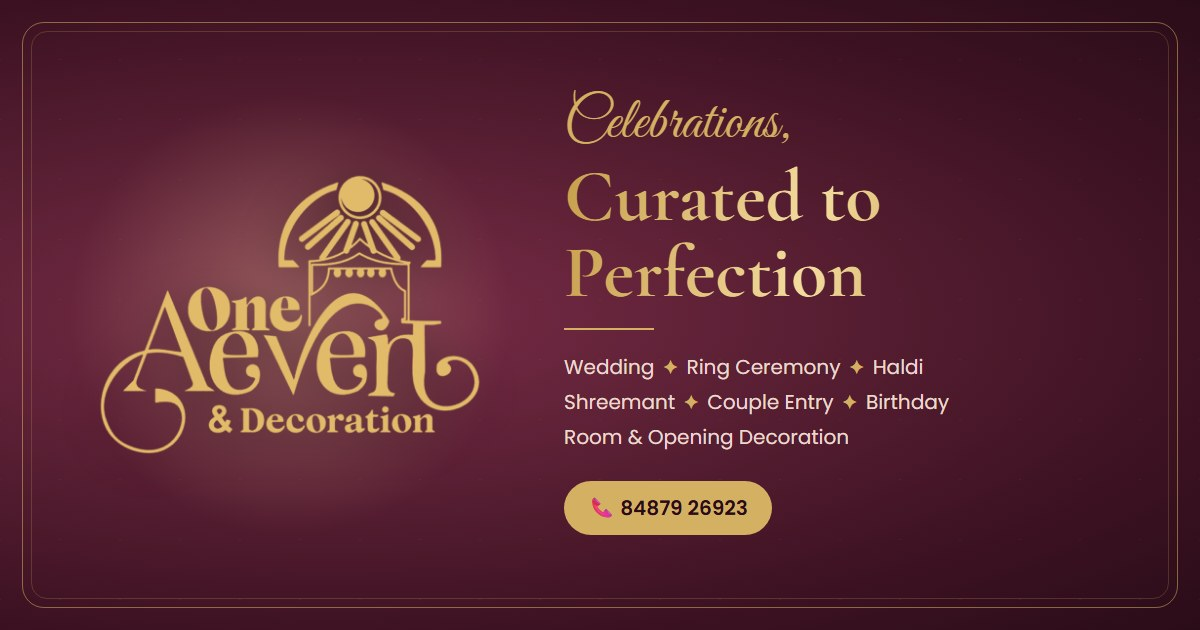
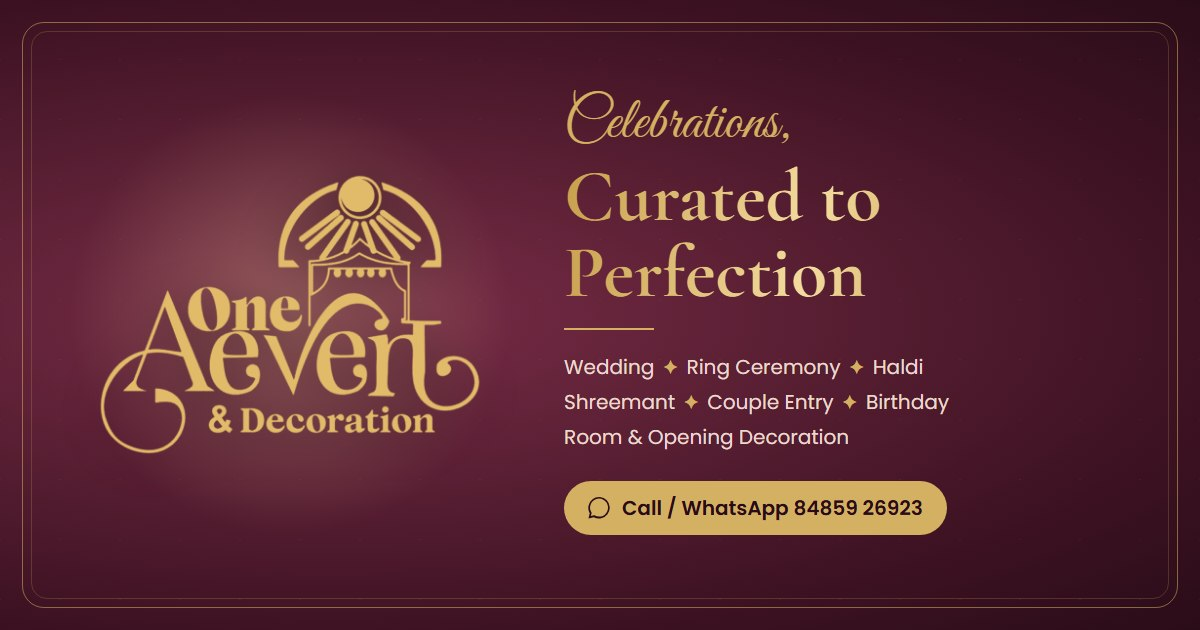
Change primary call/WhatsApp number to 8485926923

Changed region(s): [[0.4933, 0.754, 0.8017, 0.8746]]

diff --git a/index.html b/index.html
@@ -9,7 +9,7 @@
 <meta property="og:url" content="https://aone-eventmanagement.github.io/">
 <meta property="og:site_name" content="A One Event & Decoration">
 <meta property="og:title" content="A One Event & Decoration | Curated to Perfection">
-<meta property="og:description" content="Wedding, ring ceremony, haldi, shreemant, couple entry, birthday, room and opening decoration. Call or WhatsApp 84879 26923.">
+<meta property="og:description" content="Wedding, ring ceremony, haldi, shreemant, couple entry, birthday, room and opening decoration. Call or WhatsApp 84859 26923.">
 <meta property="og:image" content="https://aone-eventmanagement.github.io/assets/og-banner.jpg">
 <meta property="og:image:width" content="1200">
 <meta property="og:image:height" content="630">
@@ -34,7 +34,7 @@
   "url": "https://aone-eventmanagement.github.io/",
   "logo": "https://aone-eventmanagement.github.io/assets/icon-512.png",
   "image": "https://aone-eventmanagement.github.io/assets/og-banner.jpg",
-  "telephone": "+91-8487926923",
+  "telephone": "+91-8485926923",
   "email": "aoneeventmanagement7@gmail.com",
   "address": {
     "@type": "PostalAddress",
@@ -47,7 +47,7 @@
   "areaServed": "Dholka, Gujarat",
   "sameAs": ["https://www.instagram.com/aone.event_management"],
   "contactPoint": [
-    {"@type": "ContactPoint", "telephone": "+91-8487926923", "contactType": "customer service", "availableLanguage": ["English", "Hindi", "Gujarati"]},
+    {"@type": "ContactPoint", "telephone": "+91-8485926923", "contactType": "customer service", "availableLanguage": ["English", "Hindi", "Gujarati"]},
     {"@type": "ContactPoint", "telephone": "+91-7984782588", "contactType": "customer service"},
     {"@type": "ContactPoint", "telephone": "+91-6353818038", "contactType": "customer service"},
     {"@type": "ContactPoint", "telephone": "+91-7016895014", "contactType": "customer service"}
@@ -571,9 +571,9 @@ footer{background:var(--maroon-dd);color:#cdb9b0;padding:60px 0 26px}
       <h2 data-i18n="cta_title">Planning a Celebration?</h2>
       <p data-i18n="cta_text">Tell us about your event and we will design a decor experience your guests will talk about for years.</p>
       <div class="cta-actions">
-        <a href="tel:+918487926923" class="btn btn-gold">
+        <a href="tel:+918485926923" class="btn btn-gold">
           <svg viewBox="0 0 24 24" fill="none" stroke="currentColor" stroke-width="2" aria-hidden="true"><path d="M22 16.9v3a2 2 0 0 1-2.2 2 19.8 19.8 0 0 1-8.6-3.1 19.5 19.5 0 0 1-6-6A19.8 19.8 0 0 1 2.1 4.2 2 2 0 0 1 4.1 2h3a2 2 0 0 1 2 1.7c.1.9.4 1.8.7 2.7a2 2 0 0 1-.5 2.1L8 9.8a16 16 0 0 0 6 6l1.3-1.3a2 2 0 0 1 2.1-.4c.9.3 1.8.6 2.7.7a2 2 0 0 1 1.7 2z"/></svg><span data-i18n="cta_call">Call Now</span></a>
-        <a href="https://wa.me/918487926923" target="_blank" rel="noopener" class="btn btn-line" data-i18n="cta_wa">WhatsApp Us</a>
+        <a href="https://wa.me/918485926923" target="_blank" rel="noopener" class="btn btn-line" data-i18n="cta_wa">WhatsApp Us</a>
       </div>
     </div>
   </div>
@@ -594,7 +594,7 @@ footer{background:var(--maroon-dd);color:#cdb9b0;padding:60px 0 26px}
         <p data-i18n="info_text">Call, WhatsApp or visit us. We would love to hear about your celebration.</p>
         <div class="info-row"><i><svg viewBox="0 0 24 24" fill="none" stroke="currentColor" stroke-width="1.8"><path d="M22 16.9v3a2 2 0 0 1-2.2 2 19.8 19.8 0 0 1-8.6-3.1 19.5 19.5 0 0 1-6-6A19.8 19.8 0 0 1 2.1 4.2 2 2 0 0 1 4.1 2h3a2 2 0 0 1 2 1.7c.1.9.4 1.8.7 2.7a2 2 0 0 1-.5 2.1L8 9.8a16 16 0 0 0 6 6l1.3-1.3a2 2 0 0 1 2.1-.4c.9.3 1.8.6 2.7.7a2 2 0 0 1 1.7 2z"/></svg></i>
           <div><small data-i18n="lbl_phone">Phone</small><div class="phones">
-            <a href="tel:+918487926923">+91 84879 26923</a><a href="tel:+917984782588">+91 79847 82588</a>
+            <a href="tel:+918485926923">+91 84859 26923</a><a href="tel:+917984782588">+91 79847 82588</a>
             <a href="tel:+916353818038">+91 63538 18038</a><a href="tel:+917016895014">+91 70168 95014</a></div></div></div>
         <div class="info-row"><i><svg viewBox="0 0 24 24" fill="none" stroke="currentColor" stroke-width="1.8"><rect x="3" y="3" width="18" height="18" rx="5"/><circle cx="12" cy="12" r="4"/><circle cx="17.5" cy="6.5" r="1" fill="currentColor"/></svg></i>
           <div><small data-i18n="lbl_insta">Instagram</small><a href="https://www.instagram.com/aone.event_management" target="_blank" rel="noopener">@aone.event_management</a></div></div>
@@ -645,7 +645,7 @@ footer{background:var(--maroon-dd);color:#cdb9b0;padding:60px 0 26px}
         <p data-i18n="foot_text">Elegant decoration for weddings, ceremonies and every celebration in between. Curated to perfection.</p>
         <div class="social">
           <a href="https://www.instagram.com/aone.event_management" target="_blank" rel="noopener" aria-label="Instagram"><svg viewBox="0 0 24 24" fill="none" stroke="currentColor" stroke-width="1.8"><rect x="3" y="3" width="18" height="18" rx="5"/><circle cx="12" cy="12" r="4"/></svg></a>
-          <a href="https://wa.me/918487926923" target="_blank" rel="noopener" aria-label="WhatsApp"><svg viewBox="0 0 24 24" fill="currentColor"><path d="M20.5 3.5A11.8 11.8 0 0 0 1.9 17.7L.5 23.5l5.9-1.5A11.8 11.8 0 0 0 20.5 3.5zM12 21.4a9.8 9.8 0 0 1-5-1.4l-.4-.2-3.5.9.9-3.4-.2-.4A9.8 9.8 0 1 1 12 21.4z"/></svg></a>
+          <a href="https://wa.me/918485926923" target="_blank" rel="noopener" aria-label="WhatsApp"><svg viewBox="0 0 24 24" fill="currentColor"><path d="M20.5 3.5A11.8 11.8 0 0 0 1.9 17.7L.5 23.5l5.9-1.5A11.8 11.8 0 0 0 20.5 3.5zM12 21.4a9.8 9.8 0 0 1-5-1.4l-.4-.2-3.5.9.9-3.4-.2-.4A9.8 9.8 0 1 1 12 21.4z"/></svg></a>
           <a href="mailto:aoneeventmanagement7@gmail.com" aria-label="Email"><svg viewBox="0 0 24 24" fill="none" stroke="currentColor" stroke-width="1.8"><rect x="2" y="4" width="20" height="16" rx="2"/><path d="M22 6l-10 7L2 6"/></svg></a>
         </div>
       </div>
@@ -657,21 +657,21 @@ footer{background:var(--maroon-dd);color:#cdb9b0;padding:60px 0 26px}
       <div>
         <h4 data-i18n="foot_links">Quick Links</h4>
         <a href="#about" data-i18n="nav_about">About</a><a href="#process" data-i18n="nav_process">Process</a><a href="#contact" data-i18n="ct_title">Book Your Date</a>
-        <a href="tel:+918487926923">+91 84879 26923</a>
+        <a href="tel:+918485926923">+91 84859 26923</a>
       </div>
     </div>
     <p class="copy">© <span id="year"></span> A One Event &amp; Decoration. <span data-i18n="copy">All rights reserved.</span></p>
   </div>
 </footer>
 
-<a class="wa" href="https://wa.me/918487926923" target="_blank" rel="noopener" aria-label="Chat on WhatsApp">
+<a class="wa" href="https://wa.me/918485926923" target="_blank" rel="noopener" aria-label="Chat on WhatsApp">
   <svg viewBox="0 0 24 24"><path d="M20.5 3.5A11.8 11.8 0 0 0 1.9 17.7L.5 23.5l5.9-1.5A11.8 11.8 0 0 0 20.5 3.5zM12 21.4a9.8 9.8 0 0 1-5-1.4l-.4-.2-3.5.9.9-3.4-.2-.4A9.8 9.8 0 1 1 12 21.4zm5.4-7.3c-.3-.1-1.8-.9-2-1s-.5-.1-.7.1-.8 1-.9 1.2-.3.2-.6.1a8 8 0 0 1-4-3.5c-.3-.5.3-.5.9-1.6.1-.2 0-.4 0-.5l-.9-2.2c-.2-.6-.5-.5-.7-.5h-.6a1.1 1.1 0 0 0-.8.4 3.4 3.4 0 0 0-1 2.5 5.9 5.9 0 0 0 1.2 3.1 13.4 13.4 0 0 0 5.2 4.6c1.9.8 2.7.9 3.6.7a3.1 3.1 0 0 0 2-1.4 2.5 2.5 0 0 0 .2-1.4c-.1-.1-.3-.2-.6-.3z"/></svg>
 </a>
 
 <!-- Mobile quick-action bar -->
 <div class="mbar">
-  <a href="tel:+918487926923"><svg viewBox="0 0 24 24" fill="none" stroke="currentColor" stroke-width="2" aria-hidden="true"><path d="M22 16.9v3a2 2 0 0 1-2.2 2 19.8 19.8 0 0 1-8.6-3.1 19.5 19.5 0 0 1-6-6A19.8 19.8 0 0 1 2.1 4.2 2 2 0 0 1 4.1 2h3a2 2 0 0 1 2 1.7c.1.9.4 1.8.7 2.7a2 2 0 0 1-.5 2.1L8 9.8a16 16 0 0 0 6 6l1.3-1.3a2 2 0 0 1 2.1-.4c.9.3 1.8.6 2.7.7a2 2 0 0 1 1.7 2z"/></svg><span data-i18n="mb_call">Call</span></a>
-  <a class="wa-m" href="https://wa.me/918487926923" target="_blank" rel="noopener"><svg viewBox="0 0 24 24" fill="currentColor" aria-hidden="true"><path d="M20.5 3.5A11.8 11.8 0 0 0 1.9 17.7L.5 23.5l5.9-1.5A11.8 11.8 0 0 0 20.5 3.5zM12 21.4a9.8 9.8 0 0 1-5-1.4l-.4-.2-3.5.9.9-3.4-.2-.4A9.8 9.8 0 1 1 12 21.4z"/></svg><span>WhatsApp</span></a>
+  <a href="tel:+918485926923"><svg viewBox="0 0 24 24" fill="none" stroke="currentColor" stroke-width="2" aria-hidden="true"><path d="M22 16.9v3a2 2 0 0 1-2.2 2 19.8 19.8 0 0 1-8.6-3.1 19.5 19.5 0 0 1-6-6A19.8 19.8 0 0 1 2.1 4.2 2 2 0 0 1 4.1 2h3a2 2 0 0 1 2 1.7c.1.9.4 1.8.7 2.7a2 2 0 0 1-.5 2.1L8 9.8a16 16 0 0 0 6 6l1.3-1.3a2 2 0 0 1 2.1-.4c.9.3 1.8.6 2.7.7a2 2 0 0 1 1.7 2z"/></svg><span data-i18n="mb_call">Call</span></a>
+  <a class="wa-m" href="https://wa.me/918485926923" target="_blank" rel="noopener"><svg viewBox="0 0 24 24" fill="currentColor" aria-hidden="true"><path d="M20.5 3.5A11.8 11.8 0 0 0 1.9 17.7L.5 23.5l5.9-1.5A11.8 11.8 0 0 0 20.5 3.5zM12 21.4a9.8 9.8 0 0 1-5-1.4l-.4-.2-3.5.9.9-3.4-.2-.4A9.8 9.8 0 1 1 12 21.4z"/></svg><span>WhatsApp</span></a>
   <a class="enq" href="#contact"><svg viewBox="0 0 24 24" fill="none" stroke="currentColor" stroke-width="2" aria-hidden="true"><rect x="3" y="4" width="18" height="18" rx="2"/><path d="M16 2v4M8 2v4M3 10h18"/></svg><span data-i18n="mb_enq">Enquire</span></a>
 </div>
 
@@ -848,7 +848,7 @@ document.getElementById('bookForm').addEventListener('submit',e=>{
   if(v('fVenue'))lines.push('Venue: '+v('fVenue'));
   if(v('fMsg'))lines.push('Details: '+v('fMsg'));
   lines.push('Language: '+LANG.toUpperCase());
-  const url='https://wa.me/918487926923?text='+encodeURIComponent(lines.join('\n'));
+  const url='https://wa.me/918485926923?text='+encodeURIComponent(lines.join('\n'));
   const w=window.open(url,'_blank');
   if(w)w.opener=null;else location.href=url;   // popup blocked: open in same tab
   g('formNote').classList.add('show');
